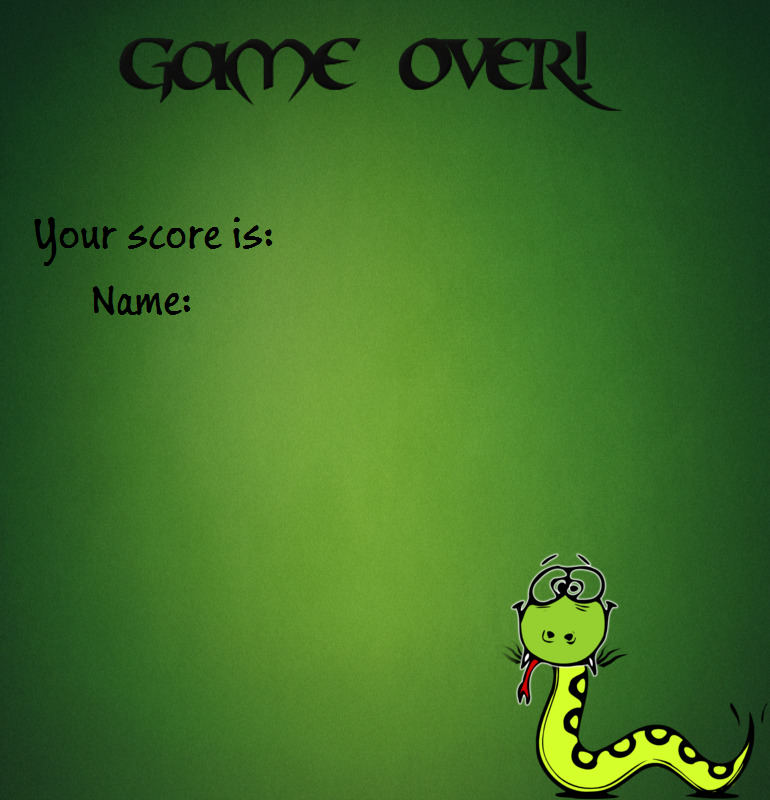
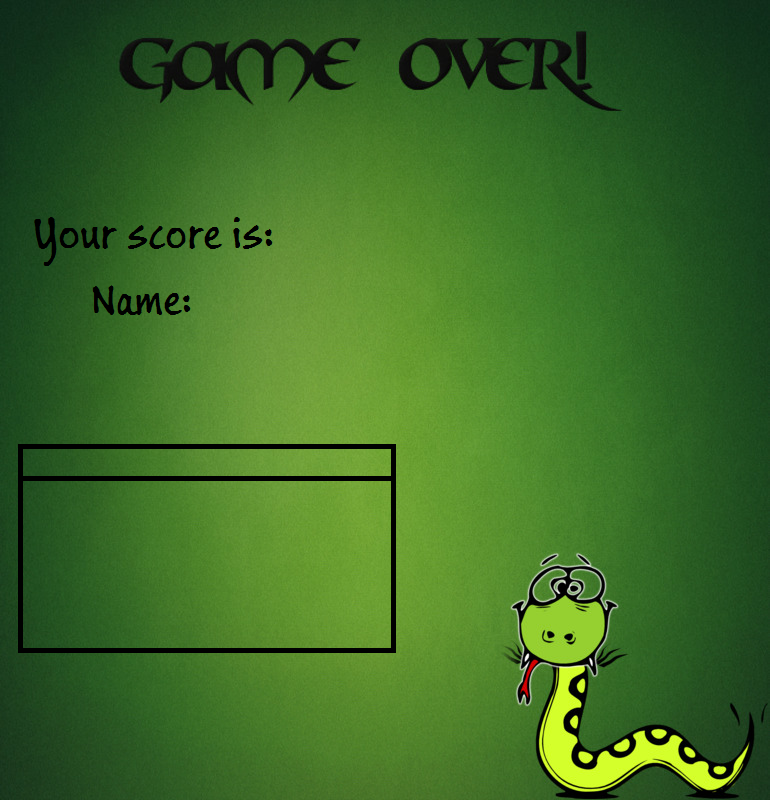
high scores endGamePage

Changed region(s): [[0.0, 0.5312, 0.5299, 0.8125], [0.0312, 0.8125, 0.4987, 0.8438]]

diff --git a/SnakeGraphics/src/Game.cpp b/SnakeGraphics/src/Game.cpp
@@ -610,6 +610,7 @@ void Game::endGamePage(int score, int difficulty)
 	SQLite sql;
 	scoreText = " ";
 	inputText = "player's name";
+	level = " ";
 	bool firstchar = true;
 	scoreText.append(std::to_string(score));
 
@@ -627,6 +628,37 @@ void Game::endGamePage(int score, int difficulty)
 
 		inputTextTexture.loadFromRenderedText(inputText, textColor, renderer);
 		printText(inputTextTexture, 100, 330);
+
+		switch (difficulty)
+		{
+		case EASYLEVEL:
+			level = "Level : EASY";
+			displayLevel.loadFromRenderedText(level, textColor, renderer);
+			printText(displayLevel, 75, 450);
+
+			populateEasyLevelPlayers();
+			displayTop5Easy.loadFromRenderedTextWrapped(easyLevelPlayers, textColor, renderer);
+			printTextScores(displayTop5Easy, 25, 485, 0, 200, 200);
+			break;
+		case MEDIUMLEVEL:
+			level = "Level : MEDIUM";
+			displayLevel.loadFromRenderedText(level, textColor, renderer);
+			printText(displayLevel, 75, 450);
+
+			populateMediumLevelPlayers();
+			displayTop5Medium.loadFromRenderedTextWrapped(mediumLevelPlayers, textColor, renderer);
+			printTextScores(displayTop5Medium, 25, 485, 0, 200, 200);
+			break;
+		case HARDLEVEL:
+			level = "Level : HARD";
+			displayLevel.loadFromRenderedText(level, textColor, renderer);
+			printText(displayLevel, 75, 450);
+
+			populateHardLevelPlayers();
+			displayTop5Hard.loadFromRenderedTextWrapped(hardLevelPlayers, textColor, renderer);
+			printTextScores(displayTop5Hard, 25, 485, 0, 200, 200);
+			break;
+		}
 
 		SDL_RenderPresent(renderer);
 
@@ -711,11 +743,6 @@ void Game::endGamePage(int score, int difficulty)
 						level = "easy";
 
 				sql.insert(Player(inputText, score, level));
-
-				//select top 5 with the same level
-				sql.select(level);
-				sql.getPlayers();
-				//print players
 			}
 
 			if (e.type == SDL_QUIT)
@@ -854,11 +881,12 @@ void Game::executeGame(int difficulty)
 }
 #pragma endregion
 
+#pragma  region populate levels
 
 void Game::populateEasyLevelPlayers()
 {
 	SQLite sql;
-
+	easyLevelPlayers = " ";
 	sql.select("easy");
 	std::vector<Player> easyPlayers = sql.getPlayers();
 	for (int i = 0; i < easyPlayers.size(); ++i)
@@ -874,7 +902,7 @@ void Game::populateEasyLevelPlayers()
 void Game::populateMediumLevelPlayers()
 {
 	SQLite sql;
-
+	mediumLevelPlayers = " ";
 	sql.select("medium");
 	std::vector<Player> mediumPlayers = sql.getPlayers();
 	for (int i = 0; i < mediumPlayers.size(); ++i)
@@ -890,7 +918,7 @@ void Game::populateMediumLevelPlayers()
 void Game::populateHardLevelPlayers()
 {
 	SQLite sql;
-
+	hardLevelPlayers = " ";
 	sql.select("hard");
 	std::vector<Player> hardPlayers = sql.getPlayers();
 	for (int i = 0; i < hardPlayers.size(); ++i)
@@ -902,6 +930,7 @@ void Game::populateHardLevelPlayers()
 		hardLevelPlayers += " ";
 	}
 }
+#pragma endregion
 
 Game::~Game()
 {

diff --git a/SnakeGraphics/include/Game.h b/SnakeGraphics/include/Game.h
@@ -48,6 +48,7 @@ private:
 	Texture displayTop5Easy;
 	Texture displayTop5Medium;
 	Texture displayTop5Hard;
+	Texture displayLevel;
 
 	Texture scoreTexture;
 	Texture bonusTexture;
@@ -84,6 +85,7 @@ private:
 	std::string easyLevelPlayers;
 	std::string mediumLevelPlayers;
 	std::string hardLevelPlayers;
+	std::string level;
 
 
 public:
